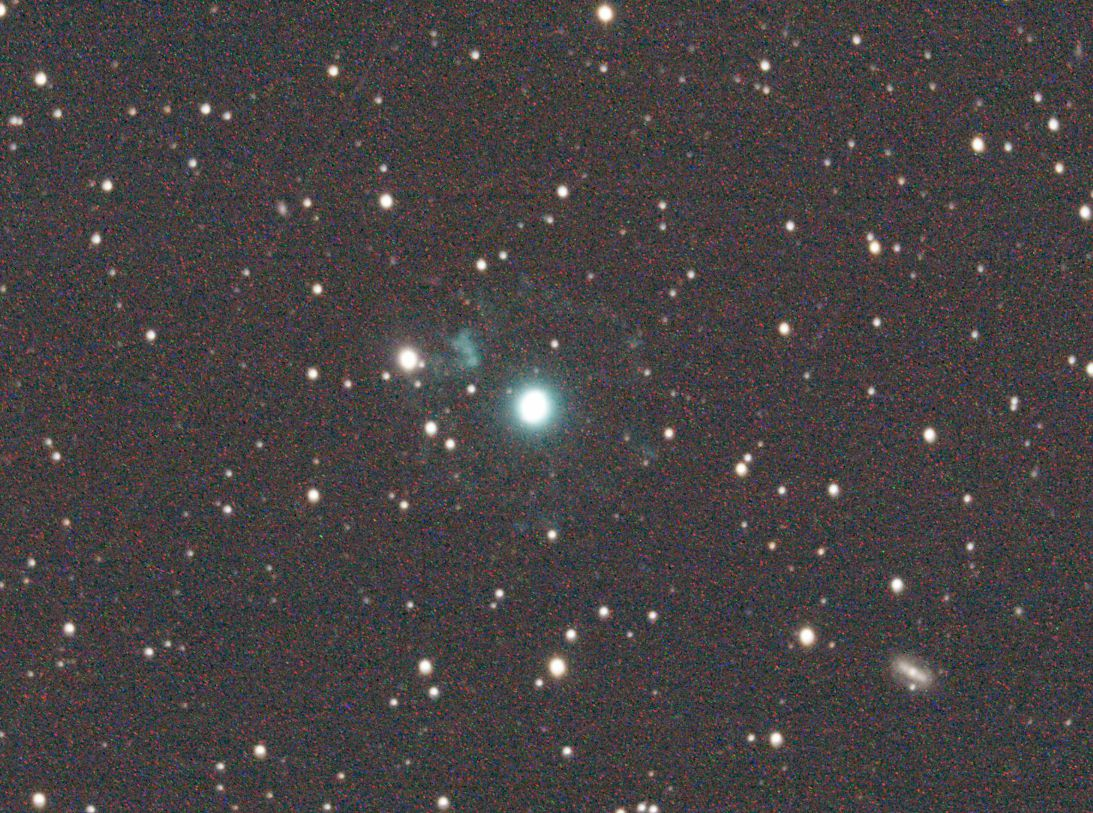
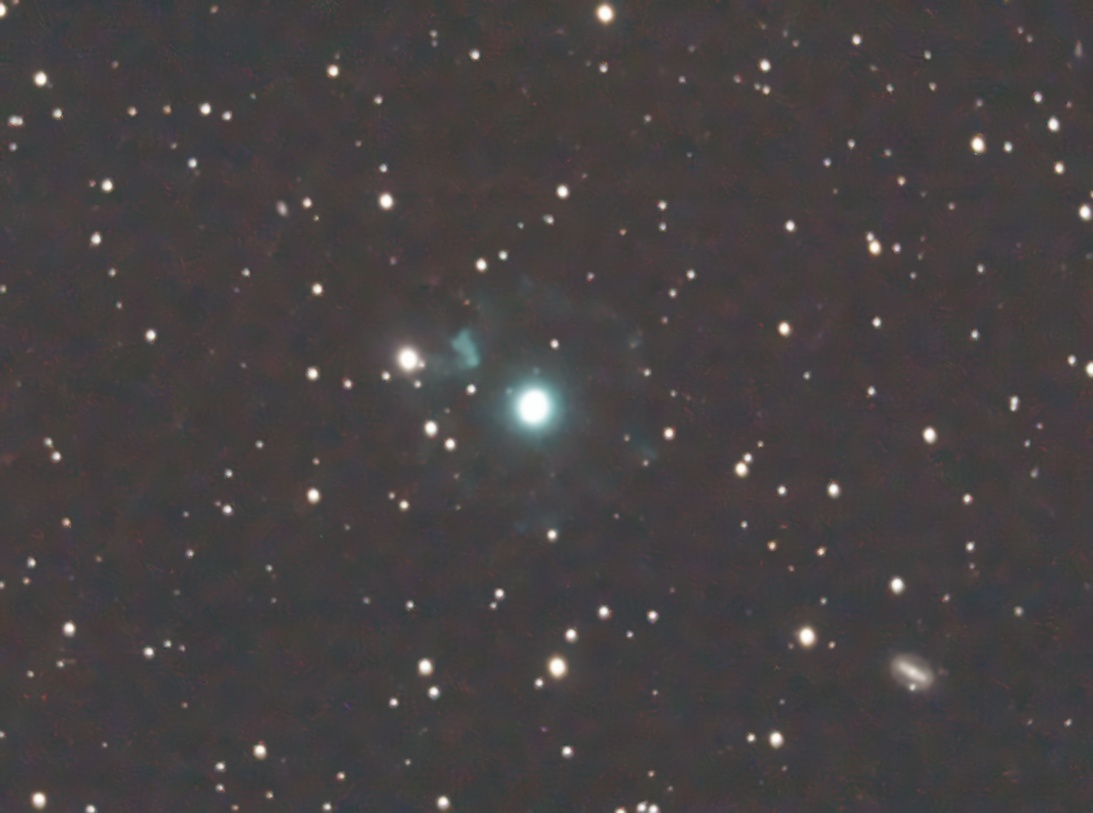
fix 6 11-13

Changed region(s): [[0.0, 0.0, 1.0, 1.0]]

diff --git a/main.py b/main.py
@@ -1,15 +1,13 @@
 import numpy as np
-import cv2 as cv
+import cv2
 from matplotlib import pyplot as plt
-img = cv.imread('n7.jpg')
 
+img = cv2.imread('n13.jpeg')
 
-#dst = cv.fastNlMeansDenoisingColored(img,None,20,20,7,21)
-dst = cv.fastNlMeansDenoising(img,None,10,7,21)
-
+dst = cv2.fastNlMeansDenoisingColored(img,None,5,5,7,21)
+#dst = cv2.fastNlMeansDenoising(img,None,12,7,21)
 plt.subplot(121),plt.imshow(img)
 plt.subplot(122),plt.imshow(dst)
 plt.show()
 
-
-*cv.imwrite('n5.jpg', dst)
+cv2.imwrite('n13.jpeg', dst);
